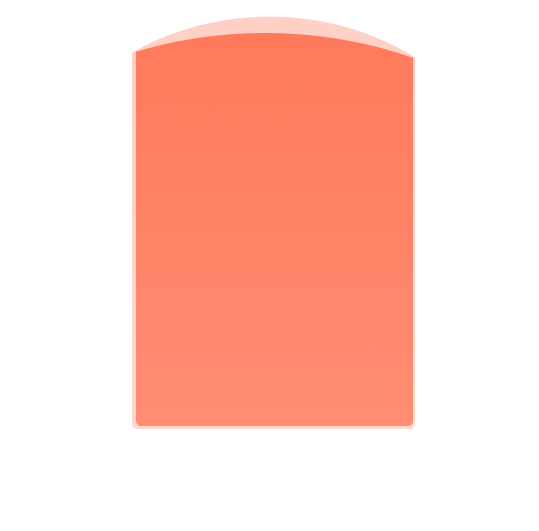
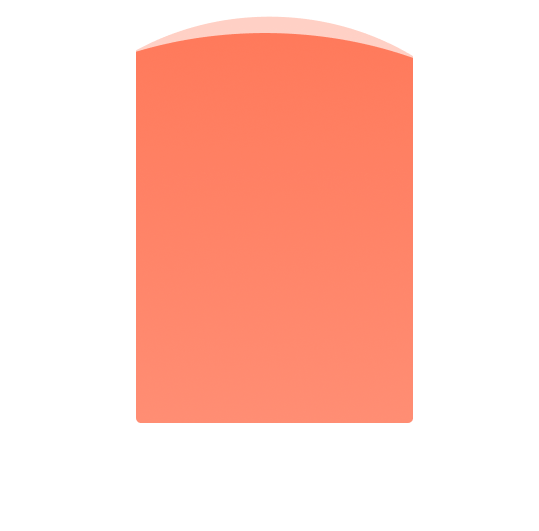
Teste 1 de designs para card, provavelmente meio porcoskkkk

Changed region(s): [[0.2375, 0.0904, 0.7718, 0.8136]]

diff --git a/app/src/screens/Food/styles.tsx b/app/src/screens/Food/styles.tsx
@@ -207,6 +207,123 @@ const styles = StyleSheet.create({
   // },
   
   //Design2
+  // container: {
+  //   flex: 1,
+  //   backgroundColor: '#FFFFFF',
+  //   display:'flex',
+  //   alignItems:'center',
+  // },
+
+  // header: {
+  //   display: 'flex',
+  //   flexDirection: 'row',
+  //   width: '100%',
+  //   height: 90,
+  //   top: 20,
+  // },
+
+  // title: {
+  //   fontSize:36,
+  //   color:"#000000",
+  //   marginLeft:20,
+  //   fontWeight:"bold"
+  // },
+
+  // card: {
+  //   backgroundColor: '#F4F4F4',
+  //   width: '60%',
+  //   paddingLeft: 20,
+  //   paddingTop: 25,
+  //   paddingBottom: 20,
+  //   borderRadius: 10,
+  //   marginBottom: 20,
+  //   resizeMode: 'contain',
+  //   position: 'relative'
+  // },
+
+  // backgroundImage: {
+  //   position: 'absolute',
+  //   top: 70,
+  //   left: 0,
+  //   width: '100%',
+  //   height: '100%',
+  //   zIndex: -1,
+  // },
+
+  // titleComida: {
+  //   fontSize:36,
+  //   color:"#000000",
+  //   fontFamily:"Inter_700Bold",
+  //   marginRight: 20
+  // },
+
+  // categoriaComida: {
+  //   fontSize:20,
+  //   color:"#7A7A7A",
+  //   fontFamily:"Inter_600SemiBold"
+  // },
+
+  // imagemComida: {
+  //   width: 230,
+  //   height: 230,
+  // },
+  
+  // calorias: {
+  //   fontSize:25,
+  //   color:"#FF4630",
+  //   marginBottom: 20,
+  //   fontFamily:"Inter_800ExtraBold",
+  //   textAlign: 'center',
+  //   marginRight: 20,
+  // },
+
+  // tituloIgredientes: {
+  //   color: '#5B5B5B',
+  //   fontWeight: 'bold'
+  // },
+
+  // igredientes: {
+  //   marginLeft: 5,
+  //   marginBottom: 20,
+  // },
+
+  // textoIgredientes: {
+  //   color: '#5B5B5B',
+  //   fontFamily:"Inter_400Regular",
+  //   fontSize:12,
+    
+  // },
+
+  // cardPrice: {
+  //   backgroundColor: '#F4F4F4',
+  //   width: '40%',
+  //   paddingTop: 10,
+  //   paddingBottom: 10,
+  //   borderRadius: 10,
+  //   marginBottom: 20,
+  //   marginTop: 50,
+  //   alignContent: 'center',
+  //   justifyContent: 'center',
+  //   alignItems: 'center',
+  //   resizeMode: 'contain',
+
+  //   shadowColor: "#000",
+  //   shadowOffset: {
+  //     width: 0,
+  //     height: 5,
+  //   },
+  //   shadowOpacity: 0.3,
+  //   shadowRadius: 5.00,
+  // },
+
+  // precoTexto: {
+  //   fontSize:20,
+  //   color:"#FA321A",
+  //   fontWeight:"bold",
+  //   textAlign: 'center',
+  // },
+
+  //Design 3
   container: {
     flex: 1,
     backgroundColor: '#FFFFFF',
@@ -230,9 +347,9 @@ const styles = StyleSheet.create({
   },
 
   card: {
-    backgroundColor: '#F4F4F4',
     width: '70%',
-    paddingLeft: 20,
+    paddingLeft: 40,
+    paddingRight: 50,
     paddingTop: 25,
     paddingBottom: 20,
     borderRadius: 10,
@@ -243,10 +360,10 @@ const styles = StyleSheet.create({
 
   backgroundImage: {
     position: 'absolute',
-    top: 70,
-    left: 0,
-    width: '100%',
-    height: '100%',
+    top: '-15vw',
+    left: '-33vw',
+    width: '135vw',
+    height: '100vh',
     zIndex: -1,
   },
 
@@ -265,20 +382,18 @@ const styles = StyleSheet.create({
   imagemComida: {
     width: 230,
     height: 230,
-    marginRight: 20,
+    
   },
   
   calorias: {
     fontSize:25,
-    color:"#FF4630",
+    color:"#FEFEFE",
     marginBottom: 20,
-    fontFamily:"Inter_600SemiBold",
-    textAlign: 'center'
+    fontFamily:"Inter_600SemiBold"
   },
 
   tituloIgredientes: {
-    color: '#5B5B5B',
-    fontWeight: 'bold'
+    color: '#FEFEFE'
   },
 
   igredientes: {
@@ -287,11 +402,12 @@ const styles = StyleSheet.create({
   },
 
   textoIgredientes: {
-    color: '#5B5B5B',
+    color: '#FEFEFE',
     fontFamily:"Inter_400Regular",
     fontSize:12,
     
   },
+
 
   cardPrice: {
     backgroundColor: '#F4F4F4',
@@ -300,7 +416,7 @@ const styles = StyleSheet.create({
     paddingBottom: 10,
     borderRadius: 10,
     marginBottom: 20,
-    marginTop: 50,
+    marginTop: 60,
     alignContent: 'center',
     justifyContent: 'center',
     alignItems: 'center',
@@ -320,9 +436,8 @@ const styles = StyleSheet.create({
     color:"#FA321A",
     fontWeight:"bold",
     textAlign: 'center',
-    marginRight: 20,
-  },
-  
+  }
 })
+
 
 export default styles; 

diff --git a/app/src/screens/Food/index.tsx b/app/src/screens/Food/index.tsx
@@ -12,6 +12,7 @@ import {
   Inter_700Bold,
   Inter_600SemiBold,
   Inter_500Medium,
+  Inter_800ExtraBold
 } from '@expo-google-fonts/inter'; // Importação de fontes do Google Fonts usando Expo.
 
 // Definindo o tipo para os parâmetros da rota, previni erros bobos que não chegam a afetar o Site.
@@ -29,6 +30,7 @@ export function Food() {
     Inter_700Bold,
     Inter_600SemiBold,
     Inter_500Medium,
+    Inter_800ExtraBold
   });
 
   // Hook de navegação para redirecionamento entre telas.
@@ -171,6 +173,61 @@ export function Food() {
     // </View>
 
     //Design2
+    // <View style={styles.container}>
+    //   <View style={styles.header}>
+    //     {/* Botão para voltar à tela anterior */}
+    //     <TouchableOpacity onPress={back}>
+    //       <Feather
+    //         name="arrow-left"
+    //         size={38}
+    //         color="#FA321A"
+    //         style={{ marginLeft: 20 }}
+    //       />
+    //     </TouchableOpacity>
+    //     <View style={{marginLeft: 20,}}>
+    //       {/* Exibindo o nome do alimento */}
+    //       <Text style={styles.titleComida}>{selectedFood.nome}</Text>
+    //       {/* Exibindo a categoria do alimento */}
+    //       <Text style={styles.categoriaComida}>{selectedFood.category}</Text>
+    //     </View>
+    //   </View>
+    //   <Image
+    //      style={styles.backgroundImage}
+    //      source={require('../../../assets/img/FoodDesign2.png')} 
+    //   />
+
+    //     <View style={{alignItems:'center', width: '100%'}}>
+    //       <Image
+    //         style={styles.imagemComida}
+    //         source={selectedFood.foto}
+    //         resizeMode="contain"
+    //       />
+
+    //     </View>
+    //   <View style={styles.card}>
+    //     {/* Exibindo a imagem do alimento */}
+    //     {/* Exibindo as calorias do alimento */}
+    //     <Text style={styles.calorias}>{selectedFood.caloria} kcal</Text>
+
+    //     {/* Título para a seção de ingredientes */}
+    //     <Text style={styles.tituloIgredientes}>Ingredientes</Text>
+    //     {/* Exibindo a lista de ingredientes */}
+    //     <View style={styles.igredientes}>
+    //       {selectedFood.ingredientes.map((ingrediente, index) => (
+    //         <Text key={index} style={styles.textoIgredientes}>
+    //           • {ingrediente}
+    //         </Text>
+    //       ))}
+    //     </View>
+    //   </View>
+
+    //   <View style={styles.cardPrice}>
+    //     {/* Exibindo o preço do alimento */}
+    //     <Text style={styles.precoTexto}>R${selectedFood.preco}</Text>
+    //   </View>
+    // </View>
+    
+    //Design 3
     <View style={styles.container}>
       <View style={styles.header}>
         {/* Botão para voltar à tela anterior */}
@@ -189,11 +246,15 @@ export function Food() {
           <Text style={styles.categoriaComida}>{selectedFood.category}</Text>
         </View>
       </View>
-      <Image
-         style={styles.backgroundImage}
-         source={require('../../../assets/img/FoodDesign2.png')} 
-      />
 
+      <View style={styles.card}>
+        <Image
+           style={styles.backgroundImage}
+           source={require('../../../assets/img/FoodDesign3.png')}
+           resizeMode="contain"
+        />
+        
+        {/* Exibindo a imagem do alimento */}
         <View style={{alignItems:'center', width: '100%'}}>
           <Image
             style={styles.imagemComida}
@@ -202,8 +263,6 @@ export function Food() {
           />
 
         </View>
-      <View style={styles.card}>
-        {/* Exibindo a imagem do alimento */}
         {/* Exibindo as calorias do alimento */}
         <Text style={styles.calorias}>{selectedFood.caloria} kcal</Text>
 
